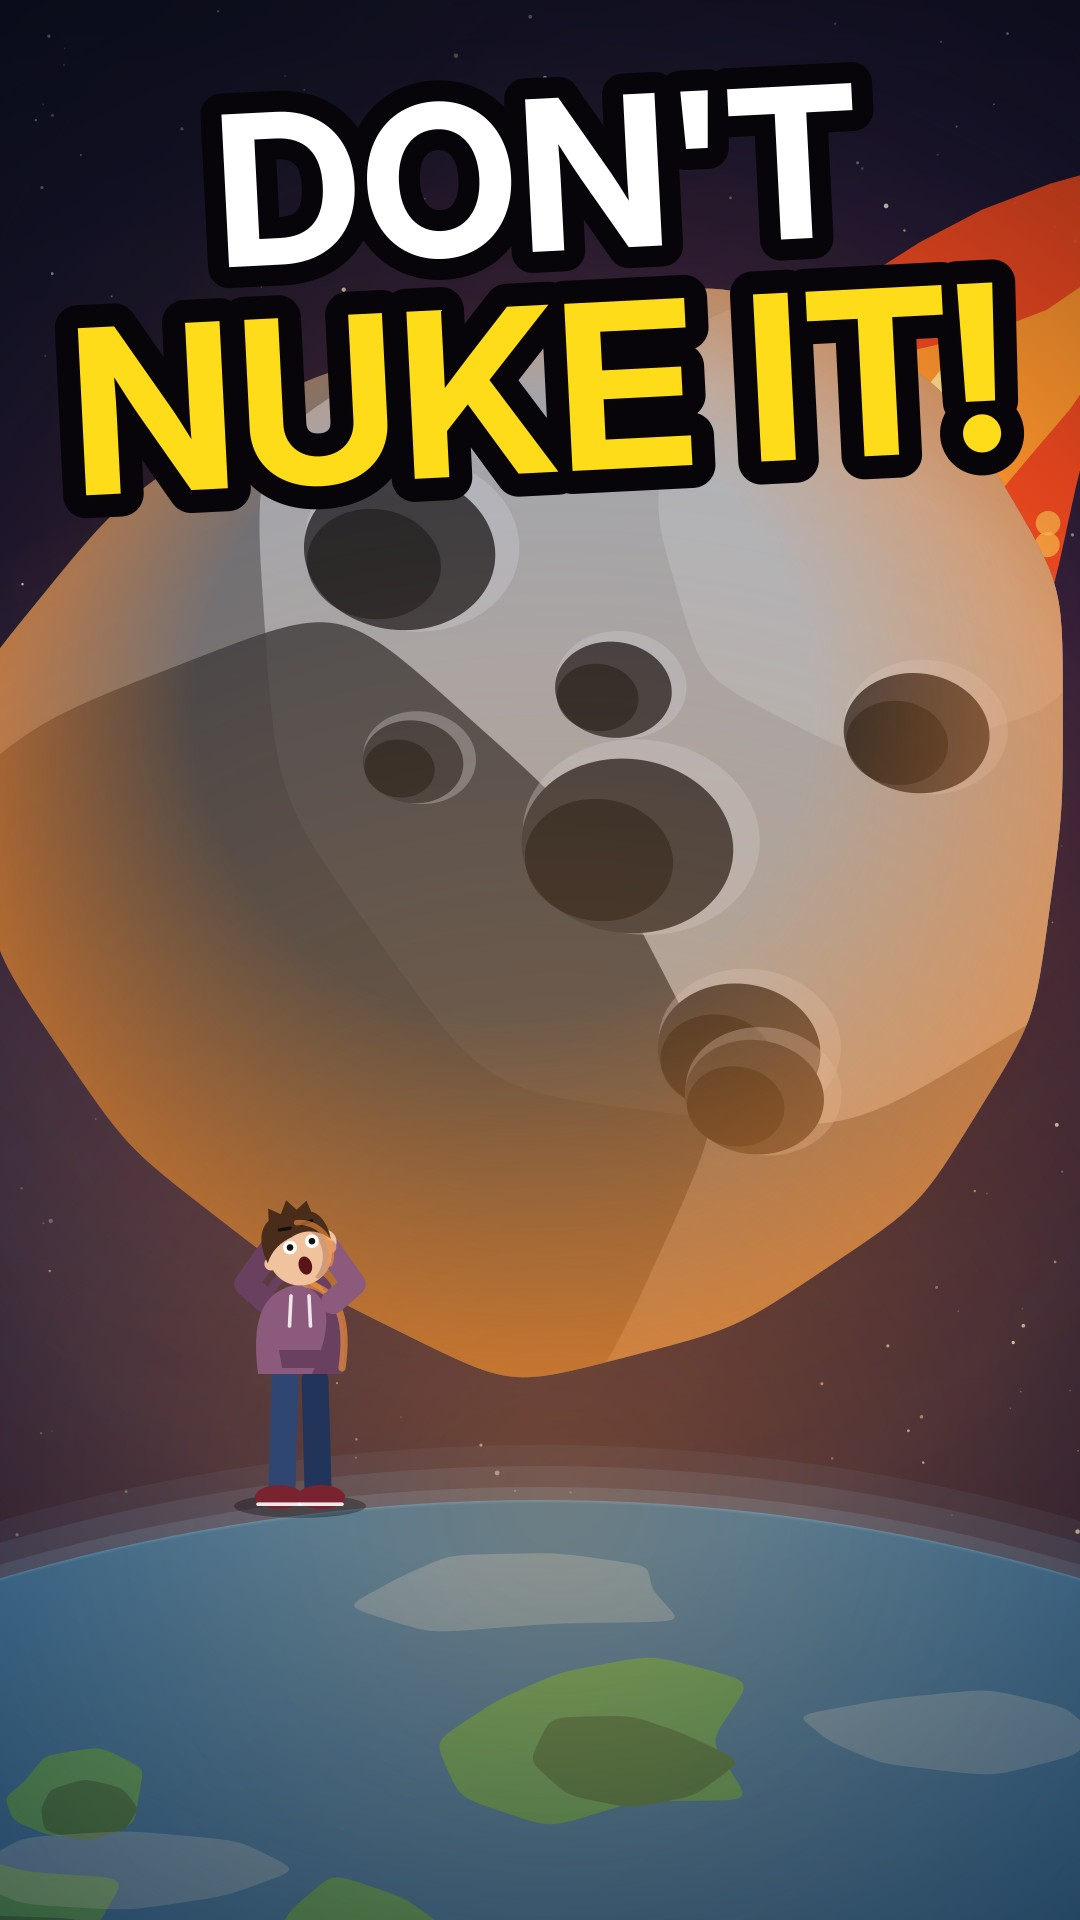
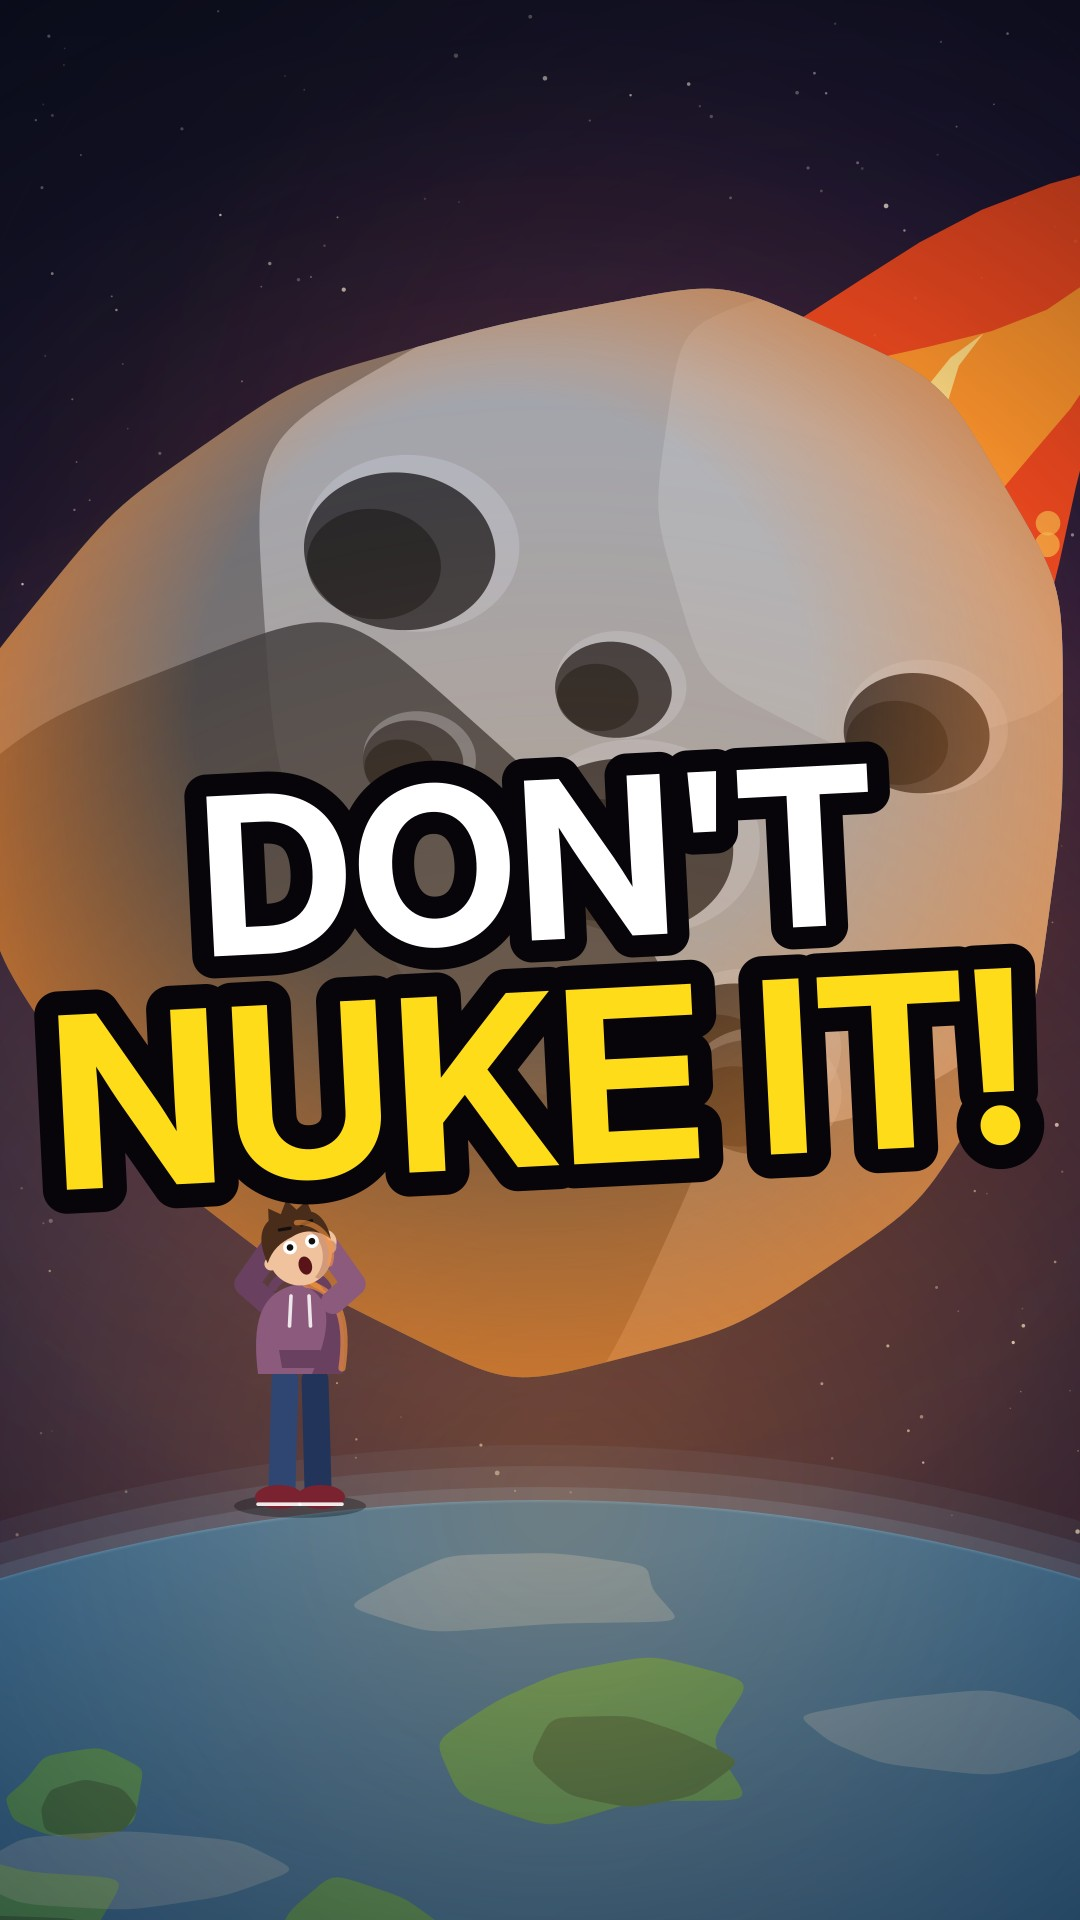
Capa EP010 com texto centrado; regra no CLAUDE.md
Claude-Session: https://claude.ai/code/session_01BxdGqxbhafGArfqFZttKdd

Changed region(s): [[0.0306, 0.375, 0.9778, 0.6562], [0.0306, 0.0312, 0.9472, 0.2812]]

diff --git a/ep010/thumb_ep010_v.py b/ep010/thumb_ep010_v.py
@@ -18,8 +18,8 @@ def text(s_, x, y, size, col, rot=0.0, oc=(0.03, 0.02, 0.04)):
     e = c.text_extents(s_); c.move_to(-e.width / 2 - e.x_bearing, -e.height / 2 - e.y_bearing); c.text_path(s_)
     c.set_source_rgb(*oc); c.set_line_width(size * 0.2); c.set_line_join(cairo.LINE_JOIN_ROUND); c.stroke_preserve()
     c.set_source_rgb(*col); c.fill(); c.restore()
-text("DON'T", 540, 175, 210, (1, 1, 1), -0.05)
-text("NUKE IT!", 540, 390, 230, (1.0, 0.86, 0.1), -0.05)
+text("DON'T", 540, 860, 220, (1, 1, 1), -0.05)
+text("NUKE IT!", 540, 1080, 240, (1.0, 0.86, 0.1), -0.05)
 s.write_to_png("build/thumb_v.png")
 Image.open("build/thumb_v.png").convert("RGB").save("../thumbnails/ep010_thumb.jpg", quality=90)
 print(os.path.getsize("../thumbnails/ep010_thumb.jpg"))

diff --git a/CLAUDE.md b/CLAUDE.md
@@ -22,7 +22,7 @@ Responde sempre em português de Portugal. O canal e os vídeos são em inglês.
 - Legendas palavra a palavra, palavra atual destacada numa cor de contraste que combine com o vídeo, fora das zonas tapadas pelo YouTube.
 - **Som limpo e poucos efeitos** (decisão do dono, 24/11/2026: efeitos repetitivos cansam): ~10–15 efeitos por vídeo, volumes baixos. Swish só em 2–3 mudanças grandes; pop leve só nos 3–4 números principais; **sem ding nas piadas**; nada de repetir o mesmo som em série (numa queda, nem vários whooshes nem vento contínuo); impacto forte só na revelação principal. Frase de marca com o seu som; música baixa com ducking. **Sem som ambiente contínuo por baixo da voz** (vento, ruído, drones; decisão do dono, 25/11/2026: o som de fundo do EP009 afastava as pessoas). Referência: EP008 v2 (`ep008/anim_ep008.py`, função `mix`).
 - **Pop-up de subscrição em todos os vídeos** (aprovado pelo dono): cápsula "🔔 SUBSCRIBE · for more what ifs" (cores livres) logo após a revelação principal (~70–75%), ~2,5 s, toque animado → "SUBSCRIBED ✓", pop leve; fora das zonas do YouTube e sem tapar o essencial da cena. Código de referência: `lib/subscribe_popup.py`.
-- **Capa (thumbnail) em todos os vídeos** (pedido do dono): imagem própria, não precisa de ser um frame do vídeo, feita para ser irresistível de clicar (expressão forte, cor de destaque, 2–4 palavras grandes com contorno, fundo do tema). 1 imagem nano_banana_pro 9:16 (~2 créditos) + texto por código, JPG < 2 MB em `thumbnails/epXXX_thumb.jpg`; aplicar logo após o envio privado com `thumbnails.set` em `youtube.googleapis.com` (funciona com a permissão `youtube.upload`).
+- **Capa (thumbnail) em todos os vídeos** (pedido do dono): imagem própria, não precisa de ser um frame do vídeo, feita para ser irresistível de clicar (expressão forte, cor de destaque, 2–4 palavras grandes com contorno, fundo do tema). **Texto da capa sempre centrado no meio da imagem** (vertical e horizontal; pedido repetido do dono, EP009 e EP010), nunca no topo. 1 imagem nano_banana_pro 9:16 (~2 créditos) + texto por código, JPG < 2 MB em `thumbnails/epXXX_thumb.jpg`; aplicar logo após o envio privado com `thumbnails.set` em `youtube.googleapis.com` (funciona com a permissão `youtube.upload`).
 - Marca discreta "@whatifaholics" no canto superior esquerdo. Sem número de episódio em nada do que é público (ecrã, título, descrição, etiquetas): é irrelevante para quem vê. EPxxx só nos ficheiros internos.
 - **Frase de marca em todos os vídeos:** "That one made me scratch my head." (escolha do dono). **Obrigatória cedo, no desenvolvimento (~3–8 s, logo a seguir ao gancho)**; pode repetir-se na viragem. Sempre com a mesma assinatura visual curta (mão a coçar a cabeça) e o mesmo som curto.
 - **Final com gatilhos até ao último segundo** (pedido do dono, 21/11/2026): guardar a maior revelação/número para os últimos ~5 s, anunciada antes com um loop aberto ("wait until you see…"); nada de abrandar no fim.
